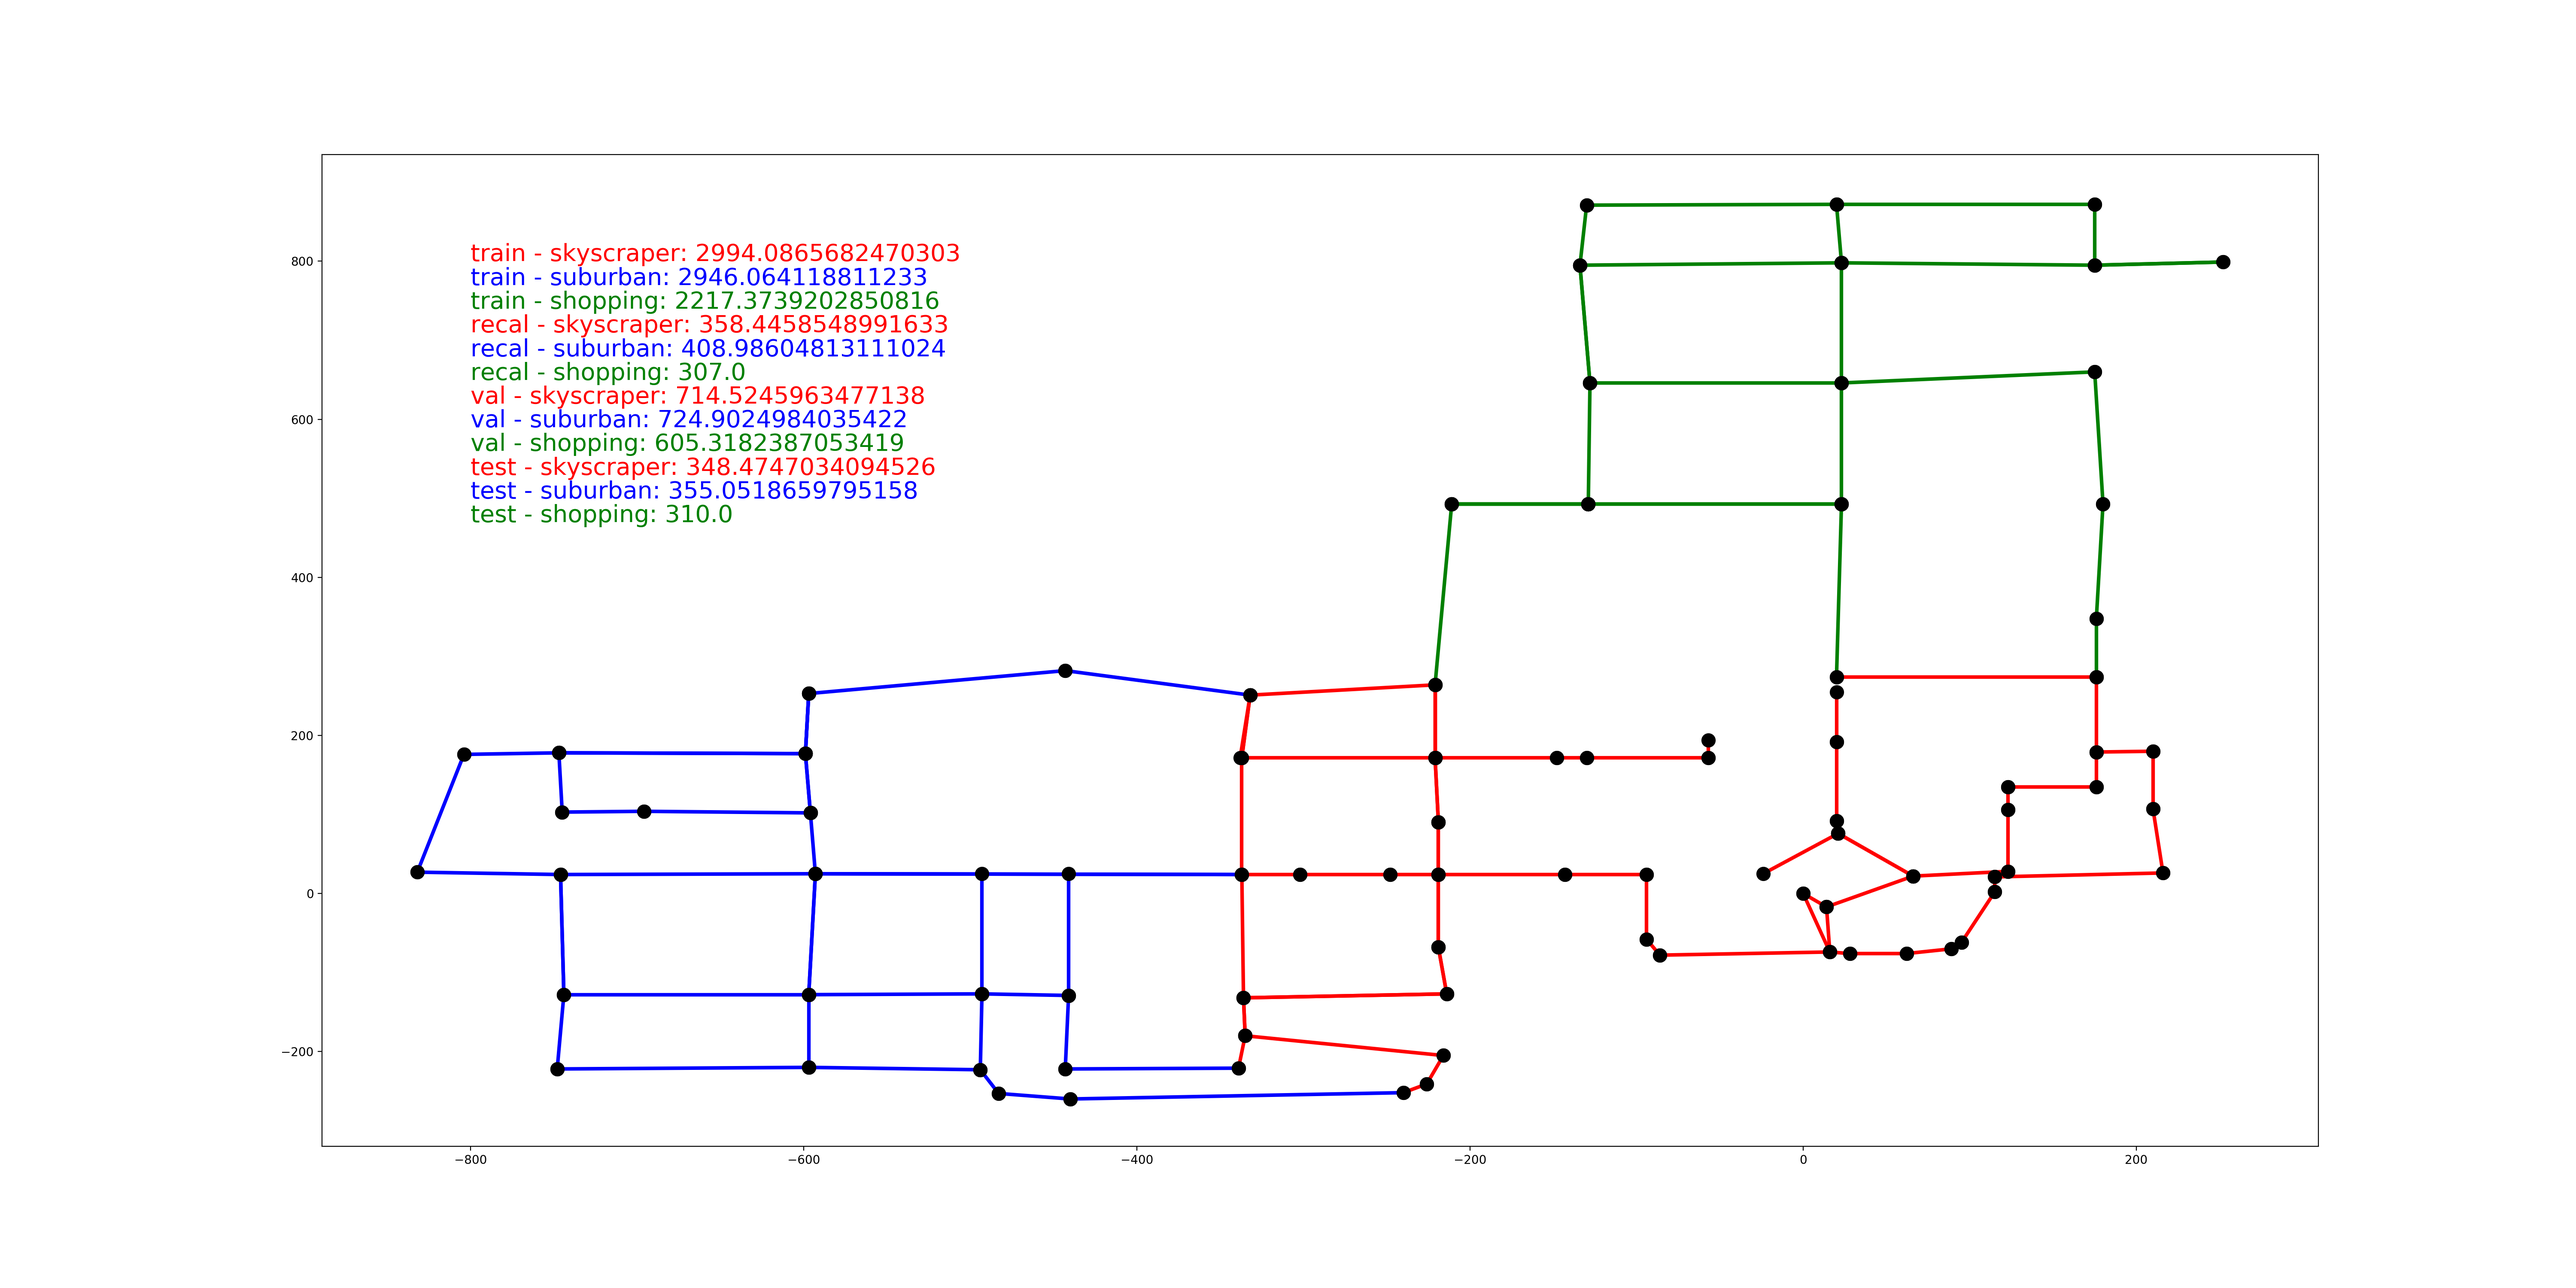
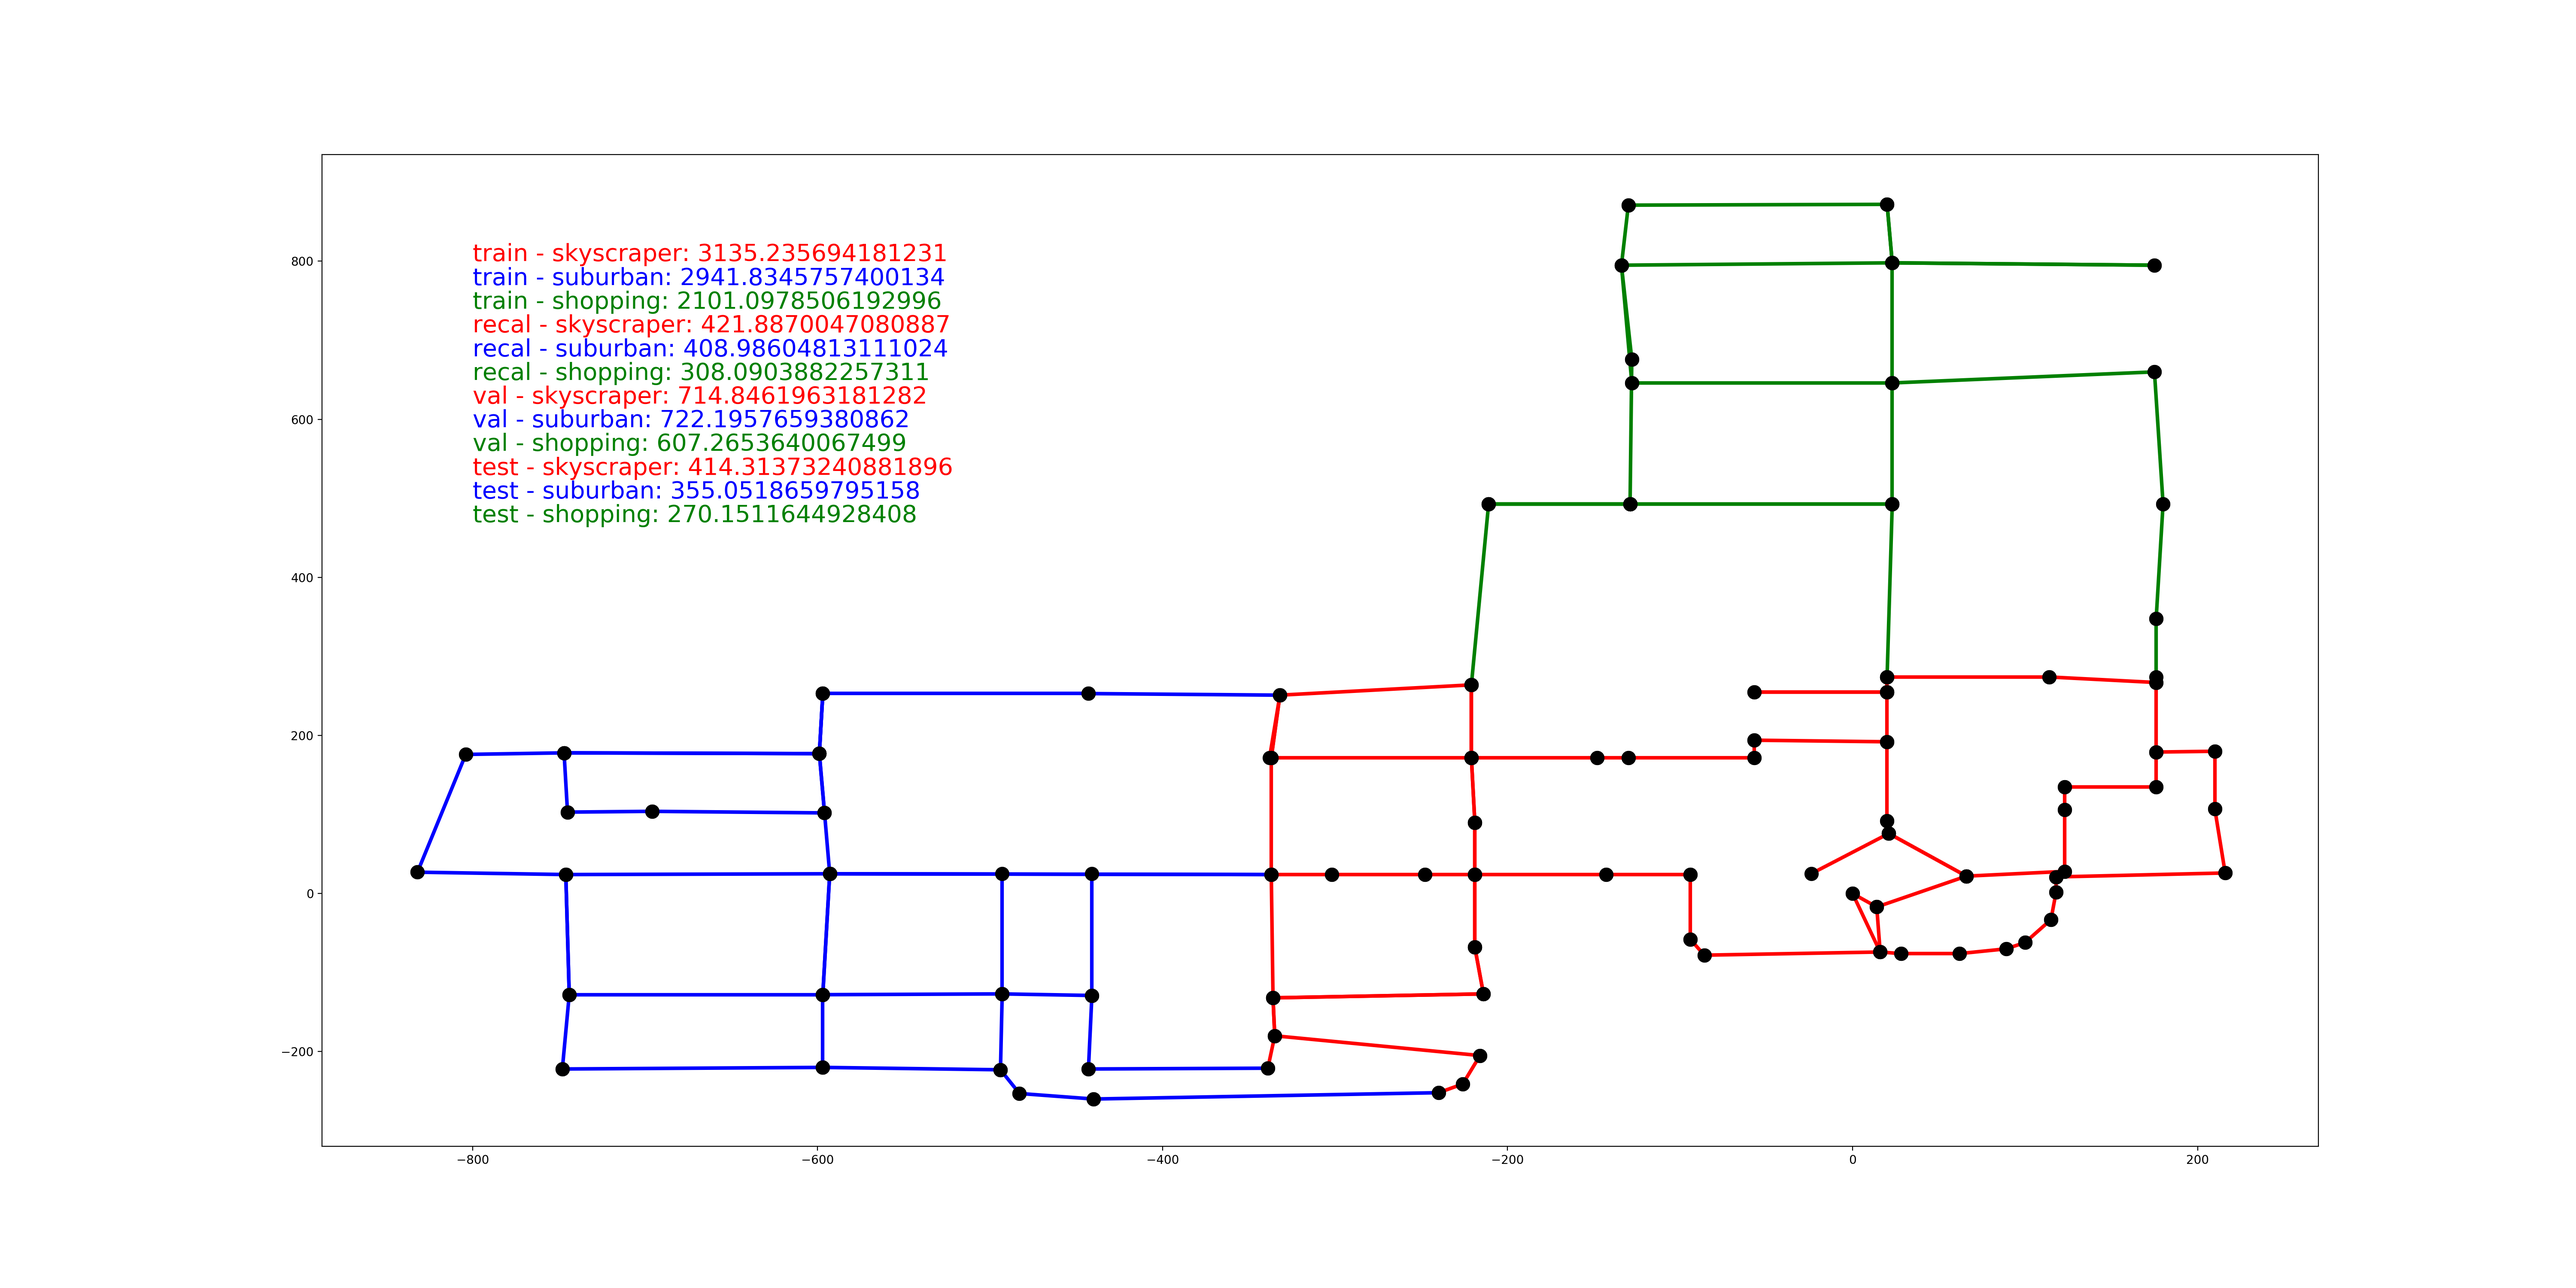
adapted to new dataset

diff --git a/ptsemseg/loader/airsim_loader.py b/ptsemseg/loader/airsim_loader.py
@@ -85,144 +85,155 @@ class airsimLoader(data.Dataset):
     # weathers = ['8camera_fog_000_dense', '8camera_rain_dense']
 
     #cam_pos = ['back_lower',  'back_upper']
-    cam_pos = [ 'back_lower',  'back_upper',
-                'front_lower', 'front_upper',
-                'left_lower',  'left_upper',
-                'right_lower', 'right_upper']
 
+    cam_pos = ['back','front','left','overhead','right']
+    # cam_pos = [ 'back_lower',  'back_upper',
+    #             'front_lower', 'front_upper',
+    #             'left_lower',  'left_upper',
+    #             'right_lower', 'right_upper']
 
 
     all_edges = [
-           ((0,0),(16,-74)),
-           ((16,-74),(-86,-78)),
-           ((-86,-78),(-94,-58)),
-           ((-94,-58),(-94,24)),
-           ((-94,24),(-143,24)),
-           ((-143,24),(-219,24)),
-           ((-219,24),(-219,-68)),
-           ((-219,-68),(-214,-127)),
-           ((-214,-127),(-336,-132)),
-           ((-336,-132),(-335,-180)),
-           ((-335,-180),(-216,-205)),
-           ((-216,-205),(-226,-241)),
-           ((-226,-241),(-240,-252)),
-           ((-240,-252),(-440,-260)),
-           ((-440,-260),(-483,-253)),
-           ((-483,-253),(-494,-223)),
-           ((-494,-223),(-493,-127)),
-           ((-493,-127),(-441,-129)),
-           ((-441,-129),(-443,-222)),
-           ((-443,-222),(-339,-221)),
-           ((-339,-221),(-335,-180)),
-           ((-335,-180),(-336,-132)),
-           ((-336,-132),(-214,-127)),
-           ((-214,-127),(-219,-68)),
-           ((-219,-68),(-219,24)),
-           ((-219,24),(-248,24)),
-           ((-248,24),(-302,24)),
-           ((-302,24),(-337,24)),
-           ((-337,24),(-593,25)),
-           ((-593,25),(-597,-128)),
-           ((-597,-128),(-597,-220)),
-           ((-597,-220),(-748,-222)),
-           ((-748,-222),(-744,-128)),
-           ((-744,-128),(-746,24)),
-           ((-746,24),(-744,-128)),
-           ((-744,-128),(-597,-128)),
-           ((-597,-128),(-593,25)),
-           ((-593,25),(-746,24)),
-           ((-746,24),(-832,27)),
-           ((-832,27),(-804,176)),
-           ((-804,176),(-747,178)),
-           ((-747,178),(-745,103)),
-           ((-745,103),(-696,104)),
-           ((-696,104),(-596,102)),
-           ((-596,102),(-599,177)),
-           ((-599,177),(-747,178)),
-           ((-747,178),(-599,177)),
-           ((-599,177),(-597,253)),
-           ((-597,253),(-599,177)),
-           ((-599,177),(-596,102)),
-           ((-596,102),(-593,25)),
-           ((-593,25),(-337,24)),
-           ((-337,24),(-337,172)),
-           ((-337,172),(-332,251)),
-           ((-332,251),(-337,172)),
-           ((-337,172),(-221,172)),
-           ((-221,172),(-221,264)),
-           ((-221,264),(-221,172)),
-           ((-221,172),(-219,90)),
-           ((-219,90),(-219,24)),
-           ((-219,24),(-219,90)),
-           ((-219,90),(-221,172)),
-           ((-221,172),(-148,172)),
-           ((-148,172),(-130,172)),
-           ((-130,172),(-57,172)),
-           ((-57,172),(-57,194)),
-           ((20,192),(20,92)),
-           ((20,92),(21,76)),
-           ((21,76),(66,22)),
-           ((66,22),(123,28)),
-           ((123,28),(123,106)),
-           ((123,106),(123,135)),
-           ((123,135),(176,135)),
-           ((176,135),(176,179)),
-           ((176,179),(210,180)),
-           ((210,180),(210,107)),
-           ((210,107),(216,26)),
-           ((216,26),(115,21)),
-           ((115,21),(115,2)),
-           ((115,2),(95,-62)),
-           ((95,-62),(89,-70)),
-           ((89,-70),(62,-76)),
-           ((62,-76),(28,-76)),
-           ((28,-76),(16,-74)),
-           ((16,-74),(14,-17)),
-           ((14,-17),(0,0)),
-           ((-494,-223),(-597,-220)),
-           ((-597,-128),(-493,-127)),
-           ((-493,-127),(-493,25)),
-           ((-441,-129),(-441,25)),
-           ((-336,-132),(-337,24)),
-           ((14,-17),(66,22)),
-           ((66,22),(21,76)),
-           ((21,76),(-24,25)),
-           ((-599,177),(-597,253)),
-           ((-597,253),(-443,282)),
-           ((-443,282),(-332,251)),
-           ((-332,251),(-221,264)),
-           ((-221,264),(-211,493)),
-           ((-211,493),(-129,493)),
-           ((-129,493),(23,493)),
-           ((23,493),(20,274)),
-           ((20,274),(176,274)),
-           ((176,274),(176,348)),
-           ((176,348),(180,493)),
-           ((180,493),(175,660)),
-           ((175,660),(23,646)),
-           ((23,646),(-128,646)),
-           ((-128,646),(-134,795)),
-           ((-134,795),(-130,871)),
-           ((-130,871),(20,872)),
-           ((20,872),(175,872)),
-           ((175,872),(175,795)),
-           ((175,795),(252,799)),
-           ((252,799),(175,795)),
-           ((175,795),(23,798)),
-           ((23,798),(-134,795)),
-           ((-134,795),(-128,646)),
-           ((-128,646),(-129,493)),
-           ((-129,493),(-211,493)),
-           ((-211,493),(-129,493)),
-           ((-129,493),(23,493)),
-           ((23,493),(23,646)),
-           ((23,646),(23,798)),
-           ((23,798),(20,872)),
-           ((-338,172),(-332,251)),
-           ((-221,172),(-221,264)),
-           ((20,192),(20,255)),
-           ((176,179),(176,274))
+                 ((0,0),(16,-74)),
+                 ((16,-74),(-86,-78)),
+                 ((-86,-78),(-94,-58)),
+                 ((-94,-58),(-94,24)),
+                 ((-94,24),(-143,24)),
+                 ((-143,24),(-219,24)),
+                 ((-219,24),(-219,-68)),
+                 ((-219,-68),(-214,-127)),
+                 ((-214,-127),(-336,-132)),
+                 ((-336,-132),(-335,-180)),
+                 ((-335,-180),(-216,-205)),
+                 ((-216,-205),(-226,-241)),
+                 ((-226,-241),(-240,-252)),
+                 ((-240,-252),(-440,-260)),
+                 ((-440,-260),(-483,-253)),
+                 ((-483,-253),(-494,-223)),
+                 ((-494,-223),(-493,-127)),
+                 ((-493,-127),(-441,-129)),
+                 ((-441,-129),(-443,-222)),
+                 ((-443,-222),(-339,-221)),
+                 ((-339,-221),(-335,-180)),
+                 ((-335,-180),(-336,-132)),
+                 ((-336,-132),(-214,-127)),
+                 ((-214,-127),(-219,-68)),
+                 ((-219,-68),(-219,24)),
+                 ((-219,24),(-248,24)),
+                 ((-248,24),(-302,24)),
+                 ((-302,24),(-337,24)),
+                 ((-337,24),(-593,25)),
+                 ((-593,25),(-597,-128)),
+                 ((-597,-128),(-597,-220)),
+                 ((-597,-220),(-748,-222)),
+                 ((-748,-222),(-744,-128)),
+                 ((-744,-128),(-746,24)),
+                 ((-746,24),(-744,-128)),
+                 ((-744,-128),(-597,-128)),
+                 ((-597,-128),(-593,25)),
+                 ((-593,25),(-746,24)),
+                 ((-746,24),(-832,27)),
+                 ((-832,27),(-804,176)),
+                 ((-804,176),(-747,178)),
+                 ((-747,178),(-745,103)),
+                 ((-745,103),(-696,104)),
+                 ((-696,104),(-596,102)),
+                 ((-596,102),(-599,177)),
+                 ((-599,177),(-747,178)),
+                 ((-747,178),(-599,177)),
+                 ((-599,177),(-597,253)),
+                 ((-597,253),(-599,177)),
+                 ((-599,177),(-596,102)),
+                 ((-596,102),(-593,25)),
+                 ((-593,25),(-337,24)),
+                 ((-337,24),(-337,172)),
+                 ((-337,172),(-332,251)),
+                 ((-332,251),(-337,172)),
+                 ((-337,172),(-221,172)),
+                 ((-221,172),(-221,264)),
+                 ((-221,264),(-221,172)),
+                 ((-221,172),(-219,90)),
+                 ((-219,90),(-219,24)),
+                 ((-219,24),(-219,90)),
+                 ((-219,90),(-221,172)),
+                 ((-221,172),(-148,172)),
+                 ((-148,172),(-130,172)),
+                 ((-130,172),(-57,172)),
+                 ((-57,172),(-57,194)),
+                 ((-57,194),(20,192)),
+                 ((20,192),(20,92)),
+                 ((20,92),(21,76)),
+                 ((21,76),(66,22)),
+                 ((66,22),(123,28)),
+                 ((123,28),(123,106)),
+                 ((123,106),(123,135)),
+                 ((123,135),(176,135)),
+                 ((176,135),(176,179)),
+                 ((176,179),(210,180)),
+                 ((210,180),(210,107)),
+                 ((210,107),(216,26)),
+                 ((216,26),(118,21)),
+                 ((118,21),(118,2)),
+                 ((118,2),(115,-33)),
+                 ((115,-33),(100,-62)), #                   
+                 ((100,-62),(89,-70)),
+                 ((89,-70),(62,-76)),
+                 ((62,-76),(28,-76)),
+                 ((28,-76),(16,-74)),
+                 ((16,-74),(14,-17)),
+                 ((14,-17),(0,0)),
+
+                 ((-494,-223),(-597,-220)),
+                 ((-597,-128),(-493,-127)),
+                 ((-493,-127),(-493,25)),
+                 ((-441,-129),(-441,25)),
+                 ((-336,-132),(-337,24)),
+
+                 ((14,-17),(66,22)),
+                 ((66,22),(21,76)),
+                 ((21,76),(-24,25)),
+                 ((-338,172),(-332,251)),
+                 ((-221,172),(-221,264)),
+                 ((20,192),(20,255)),
+                 ((176,179),(176,274)),
+                 ((-599,177),(-597,253)),
+
+                 ((-597,253),(-443,253)),
+                 ((-443,253),(-332,251)),
+                 ((-332,251),(-221,264)),
+                 ((-221,264),(-211,493)),
+                 ((-211,493),(-129,493)),
+                 ((-129,493),(23,493)),
+                 ((23,493),(20,274)),
+                 ((20,274),(20,255)),
+                 ((20,255),(-57,255)),
+                 ((-57,255),(20,255)),
+                 ((20,255),(20,274)),
+                 ((20,274),(114,274)),
+                 ((114,274),(176,267)),
+                 ((176,267),(176,348)),
+                 ((176,348),(180,493)),
+                 ((180,493),(175,660)),
+                 ((175,660),(23,646)),
+                 ((23,646),(-128,646)),
+                 ((-128,646),(-134,795)),
+                 ((-134,795),(-130,871)),
+                 ((-130,871),(20,872)),
+                 ((20,872),(23,798)),
+                 ((23,798),(175,795)),
+                 ((175,795),(23,798)),
+                 ((23,798),(-134,795)),
+                 ((-134,795),(-128,676)),
+                 ((-128,676),(-129,493)),
+                 ((-129,493),(-211,493)),
+                 ((-211,493),(-129,493)),
+                 ((-129,493),(23,493)),
+                 ((23,493),(23,646)),
+                 ((23,646),(23,798)),
+                 ((23,798),(20,872)),
+
               ]
+
 
 
     split_subdirs = {}
@@ -319,7 +330,7 @@ class airsimLoader(data.Dataset):
                         condition = subsplit
                         degradation = None
 
-                    for file_path in glob.glob(os.path.join(root,'scene',condition,subdir,'back_lower','*.png'),recursive=True):
+                    for file_path in glob.glob(os.path.join(root,'scene',condition,subdir,self.cam_pos[0],'*.png'),recursive=True):
                         #print(file_path)
 
                         ext = file_path.replace(root+"/scene/",'')
@@ -404,7 +415,6 @@ class airsimLoader(data.Dataset):
         split_subdirs['val'] = val_path_list
         split_subdirs['test'] = test_path_list
         
-
         return split_subdirs
 
     def divide_region_n_train_val_test(self):

diff --git a/tools/bag_to_png_async.py b/tools/bag_to_png_async.py
@@ -23,7 +23,7 @@ def main():
     """Extract a folder of images from a rosbag.
     """
 
-    output_root = "airsim_data_async"
+    output_root = "/home/n8k9/ripl/ros/data/bag/airsim_data_async"
 
     topic_folders = [
                      # DroneHigh Left
@@ -106,12 +106,18 @@ def main():
                 
                 print(folder.split("/"))
 
+
                 if not "pose" in folder.split('/'): # segmentation, depth, scene
 
                     camera_id = folder.split('/')[4]
                     output_dir = "{}/{}/{}/{}/{}".format(output_root,topic,condition,trajectory,camera_id)
                     if not os.path.exists(output_dir):
                         os.makedirs(output_dir)
+                    else:
+                        continue
+
+
+
 
                     bag = rosbag.Bag(file_path, "r")
                     bridge = CvBridge()
@@ -151,6 +157,8 @@ def main():
                     output_dir = "{}/{}/{}/{}/{}".format(output_root,topic,condition,trajectory,camera_id)
                     if not os.path.exists(output_dir):
                         os.makedirs(output_dir)
+                    else:
+                        continue
 
                     bag = rosbag.Bag(file_path, "r")
                     bridge = CvBridge()
